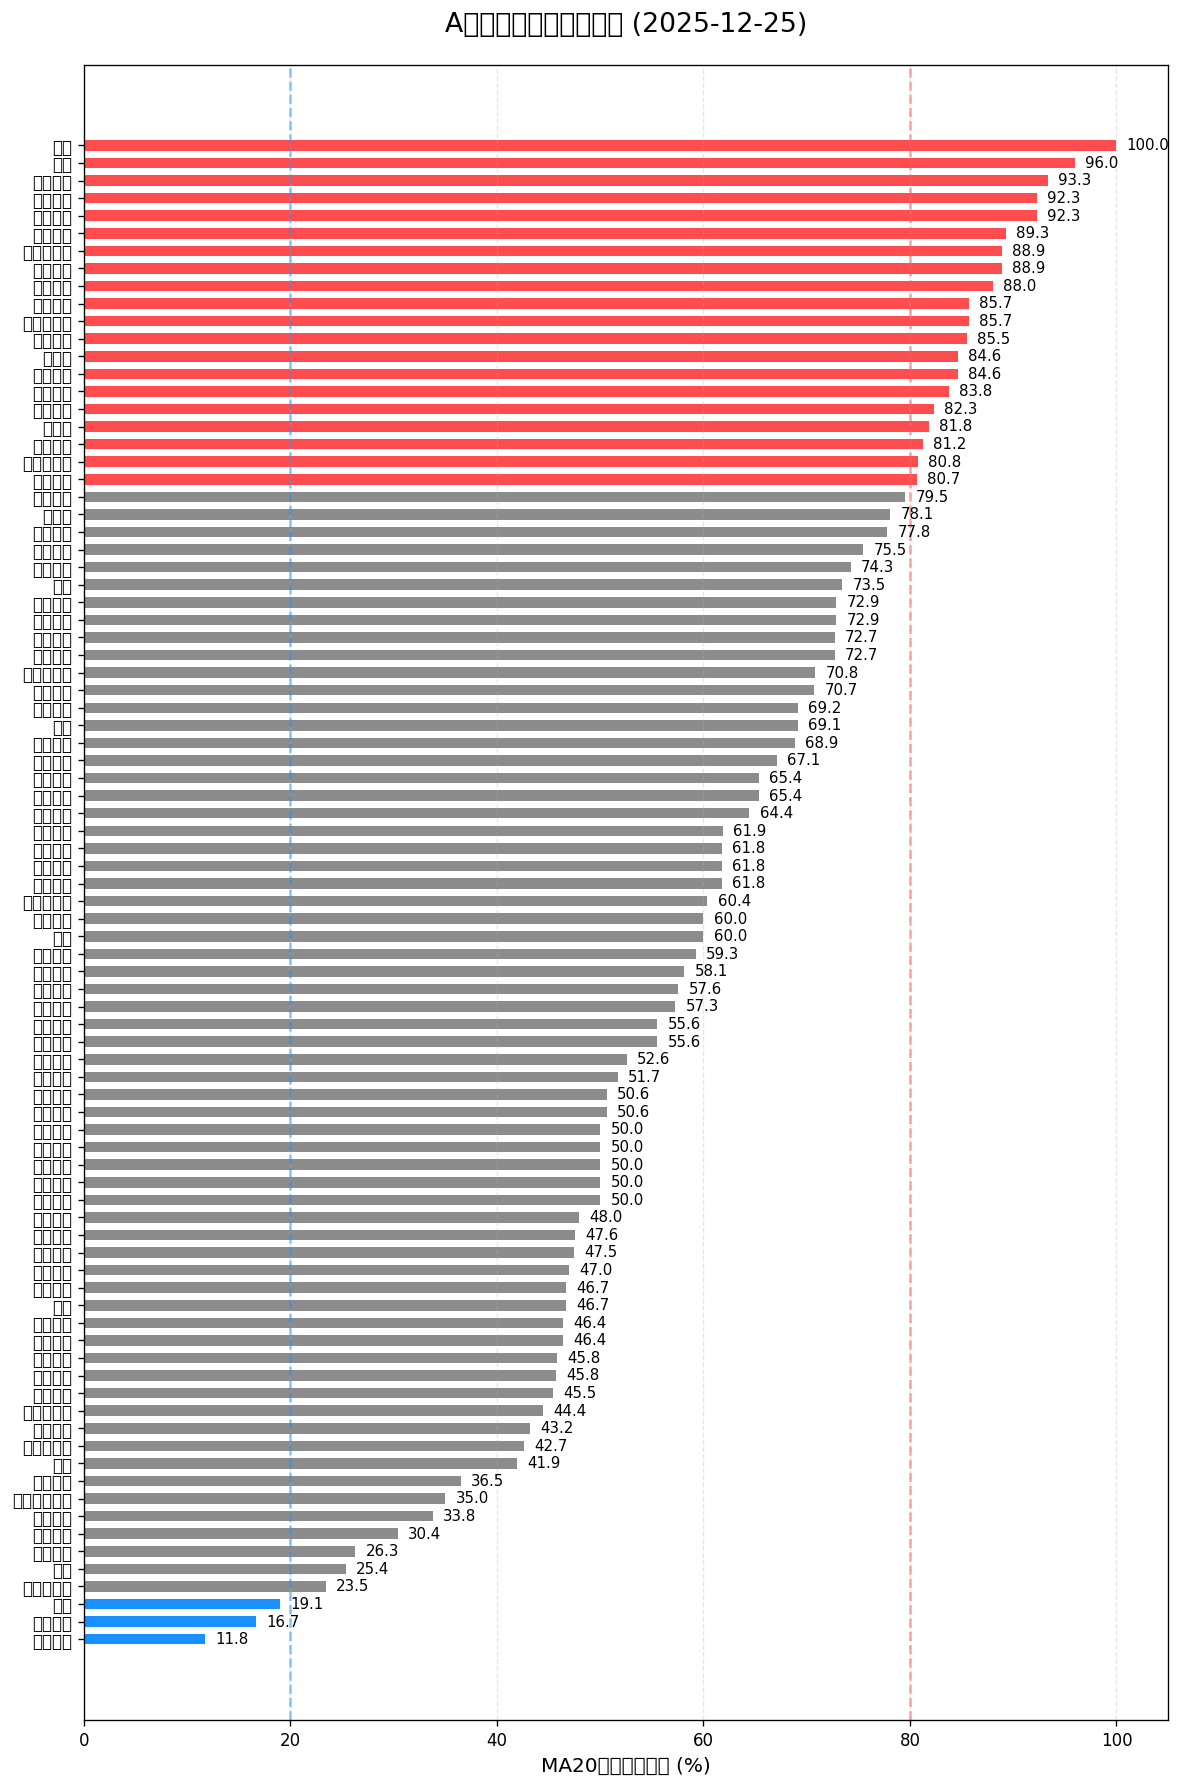
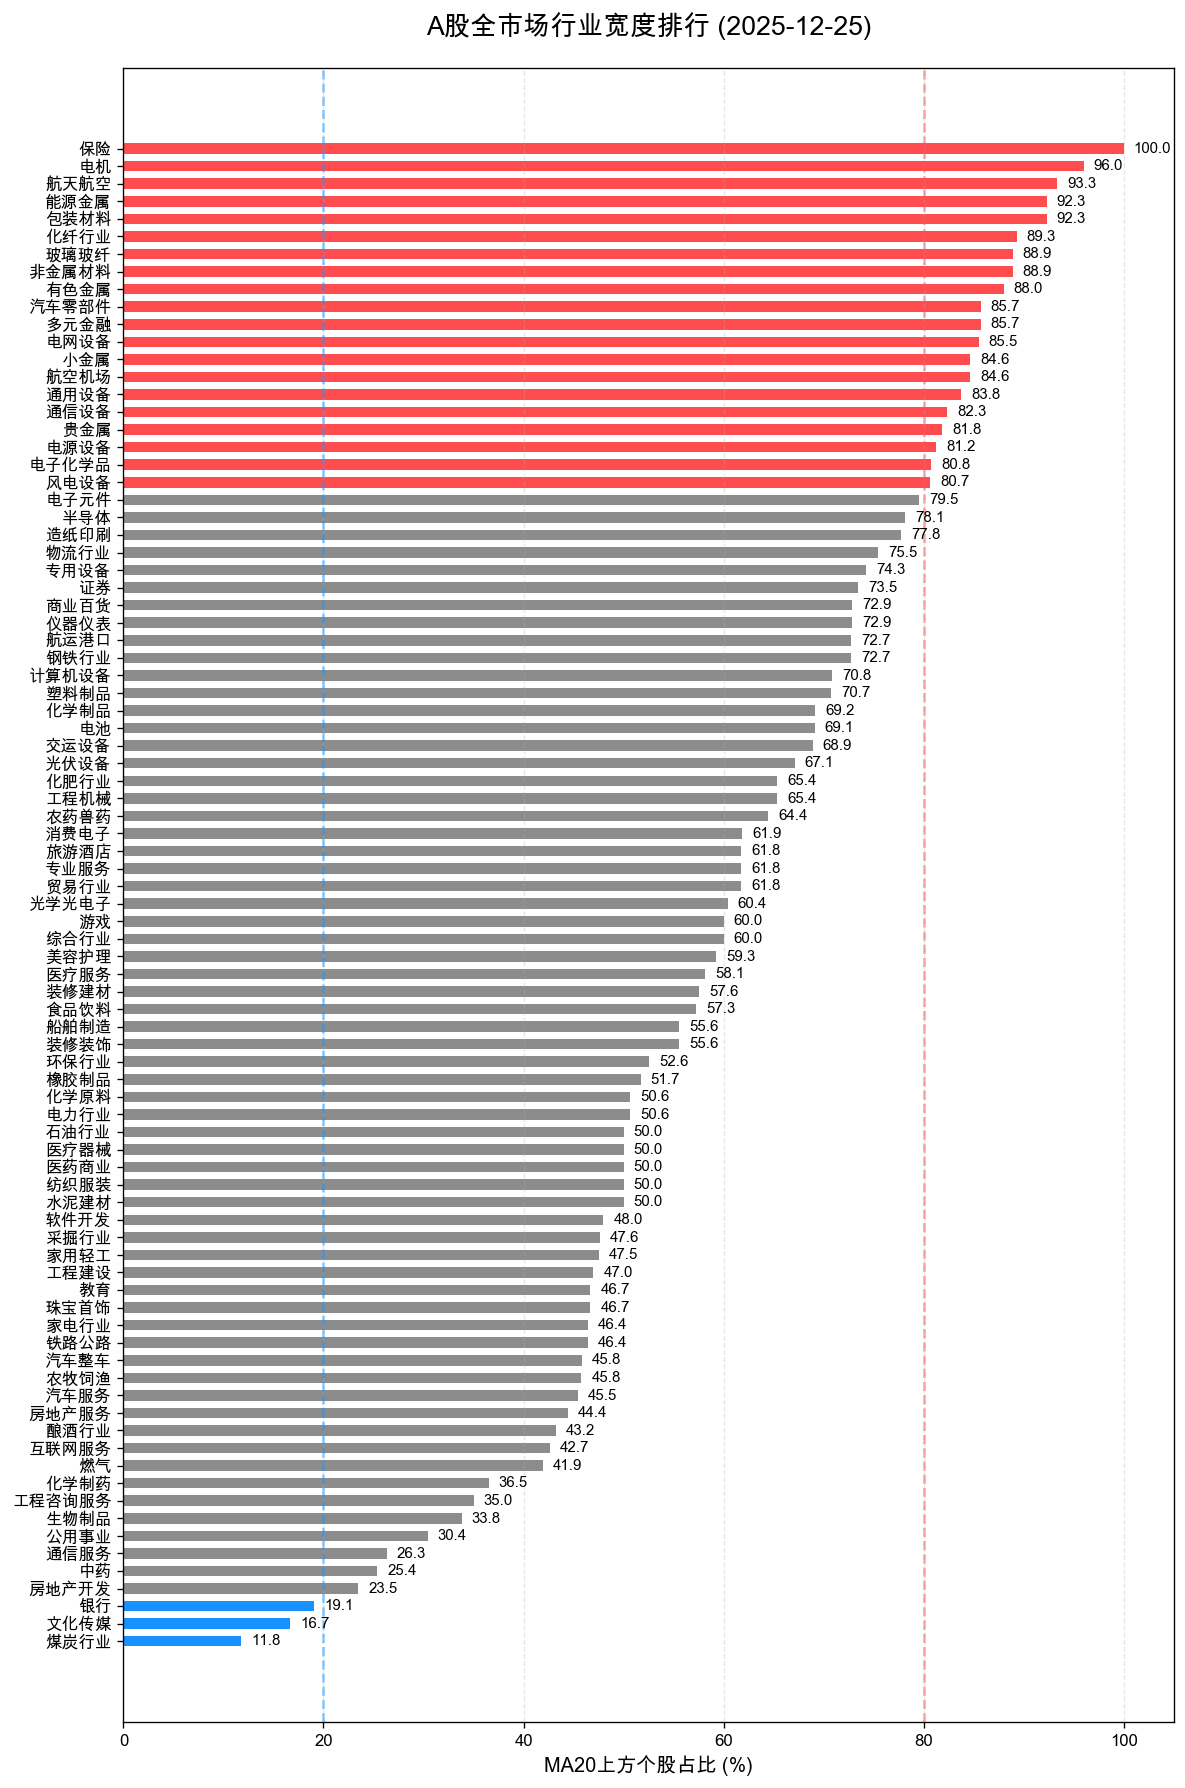
本地更新: 2025-12-26 13:20:23

diff --git a/layouts/partials/article/components/header.html b/layouts/partials/article/components/header.html
@@ -1,31 +1,43 @@
+{{- $page := . -}}
+{{- $showImage := true -}}
+{{- if reflect.IsMap . -}}
+    {{- if .Page -}}
+        {{- $page = .Page -}}
+    {{- end -}}
+    {{- if .HideImage -}}
+        {{- $showImage = false -}}
+    {{- end -}}
+{{- end -}}
+
+{{- with $page -}}
 <header class="article-header">
     {{- $image := partialCached "helper/image" (dict "Context" . "Type" "article") .RelPermalink "article" -}}
     {{- $hasImage := or $image.exists .Params.image -}}
     {{- $contentImage := "" -}}
-    {{/* 判断是否为文章浏览页（单页面）*/}}
+    {{- /* 判断是否为文章浏览页（单页面）*/ -}}
     {{- $isSinglePage := eq .Kind "page" -}}
 
-    {{/* 如果没有明确指定图片，尝试从内容中提取第一张图片 */}}
-    {{ if not $hasImage }}
-    {{ $content := .RawContent }}
-    {{ $imgPattern := `!\[.*?\]\((.*?)\)` }}
-    {{ $matches := findRE $imgPattern $content 1 }}
-    {{ if $matches }}
-    {{ $hasImage = true }}
-    {{ $firstMatch := index $matches 0 }}
-    {{ $urlPattern := `\((.*?)\)` }}
-    {{ $urlMatches := findRE $urlPattern $firstMatch 1 }}
-    {{ if $urlMatches }}
-    {{ $contentImage = replaceRE `[\(\)]` "" (index $urlMatches 0) }}
-    {{ end }}
-    {{ end }}
-    {{ end }}
+    {{- /* 如果没有明确指定图片，尝试从内容中提取第一张图片 */ -}}
+    {{- if not $hasImage -}}
+    {{- $content := .RawContent -}}
+    {{- $imgPattern := `!\[.*?\]\((.*?)\)` -}}
+    {{- $matches := findRE $imgPattern $content 1 -}}
+    {{- if $matches -}}
+    {{- $hasImage = true -}}
+    {{- $firstMatch := index $matches 0 -}}
+    {{- $urlPattern := `\((.*?)\)` -}}
+    {{- $urlMatches := findRE $urlPattern $firstMatch 1 -}}
+    {{- if $urlMatches -}}
+    {{- $contentImage = replaceRE `[\(\)]` "" (index $urlMatches 0) -}}
+    {{- end -}}
+    {{- end -}}
+    {{- end -}}
 
-    {{ if $hasImage }}
+    {{- if and $hasImage $showImage -}}
     <div class="article-image">
-        {{/* 在文章浏览页不使用链接包裹图片，避免点击刷新 */}}
-        {{ if not $isSinglePage }}<a href="{{ .RelPermalink }}">{{ end }}
-            {{ if $image.resource }}
+        {{- /* 在文章浏览页不使用链接包裹图片，避免点击刷新 */ -}}
+        {{- if not $isSinglePage -}}<a href="{{ .RelPermalink }}">{{- end -}}
+            {{- if $image.resource -}}
             {{- $Permalink := $image.resource.RelPermalink -}}
             {{- $Width := $image.resource.Width -}}
             {{- $Height := $image.resource.Height -}}
@@ -42,16 +54,17 @@
 
             <img src="{{ $Permalink }}" {{ with $Srcset }}srcset="{{ . }}" {{ end }} width="{{ $Width }}"
                 height="{{ $Height }}" loading="lazy" alt="Featured image of post {{ .Title }}" />
-            {{ else if $image.permalink }}
+            {{- else if $image.permalink -}}
             <img src="{{ $image.permalink }}" loading="lazy" alt="Featured image of post {{ .Title }}" />
-            {{ else if .Params.image }}
+            {{- else if .Params.image -}}
             <img src="{{ .Params.image | relURL }}" loading="lazy" alt="Featured image of post {{ .Title }}" />
-            {{ else if $contentImage }}
+            {{- else if $contentImage -}}
             <img src="{{ $contentImage | relURL }}" loading="lazy" alt="Featured image of post {{ .Title }}" />
-            {{ end }}
-            {{ if not $isSinglePage }}</a>{{ end }}
+            {{- end -}}
+            {{- if not $isSinglePage -}}</a>{{- end -}}
     </div>
-    {{ end }}
+    {{- end -}}
 
-    {{ partialCached "article/components/details" . .RelPermalink }}
+    {{- partialCached "article/components/details" . .RelPermalink -}}
 </header>
+{{- end -}}

diff --git a/layouts/partials/article-list/default.html b/layouts/partials/article-list/default.html
@@ -1,15 +1,3 @@
-{{ $image := partialCached "helper/image" (dict "Context" . "Type" "articleList") .RelPermalink "articleList" }}
-{{/* 检查 front matter 中是否有 image */}}
-{{ $hasImage := or $image.exists .Params.image }}
-{{/* 如果没有，尝试从内容中提取第一张图片 */}}
-{{ if not $hasImage }}
-{{ $content := .RawContent }}
-{{ $imgPattern := `!\[.*?\]\((.*?)\)` }}
-{{ $matches := findRE $imgPattern $content 1 }}
-{{ if $matches }}
-{{ $hasImage = true }}
-{{ end }}
-{{ end }}
-<article class="{{ if $hasImage }}has-image{{ end }}">
-    {{ partial "article/components/header" . }}
+<article class="">
+    {{ partial "article/components/header" (dict "Page" . "HideImage" true) }}
 </article>

diff --git a/分析文章脚本/AI市场宽度分析师_v4.py b/分析文章脚本/AI市场宽度分析师_v4.py
@@ -14,6 +14,10 @@ import matplotlib.pyplot as plt
 import matplotlib
 from pathlib import Path
 
+# 设置中文字体，GitHub Actions 优先使用 Noto Sans CJK 
+plt.rcParams['font.sans-serif'] = ['Noto Sans CJK SC', 'WenQuanYi Micro Hei', 'SimHei', 'Microsoft YaHei', 'PingFang SC', 'Arial Unicode MS', 'DejaVu Sans'] 
+plt.rcParams['axes.unicode_minus'] = False
+
 
 # ================= 配置区域 =================
 # 请在环境变量中设置 DEEPSEEK_API_KEY，或直接在此处填入 (不推荐直接提交到代码库)
@@ -830,8 +834,8 @@ def plot_market_breadth(pivot, dates):
         latest_date = dates[-1]
         current_vals = pivot[latest_date].sort_values(ascending=True)
         
-        # 设置中文字体 (优先尝试 MacOS 常见字体)
-        plt.rcParams['font.sans-serif'] = ['Arial Unicode MS', 'PingFang SC', 'Heiti TC', 'sans-serif']
+        # 设置中文字体，GitHub Actions 优先使用 Noto Sans CJK
+        plt.rcParams['font.sans-serif'] = ['Noto Sans CJK SC', 'WenQuanYi Micro Hei', 'SimHei', 'Microsoft YaHei', 'PingFang SC', 'Arial Unicode MS', 'DejaVu Sans']
         plt.rcParams['axes.unicode_minus'] = False
         
         # 创建画布
@@ -902,10 +906,6 @@ def plot_sector_momentum(momentum_df, date_str):
             return None
             
         print("正在生成行业动量散点图...")
-        
-        # 设置中文字体
-        plt.rcParams['font.sans-serif'] = ['Arial Unicode MS', 'PingFang SC', 'Heiti TC', 'sans-serif']
-        plt.rcParams['axes.unicode_minus'] = False
         
         plt.figure(figsize=(12, 10))
         

diff --git a/分析文章脚本/榨利计算深度分析_v3.py b/分析文章脚本/榨利计算深度分析_v3.py
@@ -42,8 +42,8 @@ class 榨利计算器V3:
     
     def __init__(self):
         """初始化"""
-        # 设置中文字体，GitHub Actions 优先使用 Noto Sans CJK
-        plt.rcParams['font.sans-serif'] = ['Noto Sans CJK SC', 'WenQuanYi Micro Hei', 'SimHei', 'Microsoft YaHei', 'PingFang SC', 'Arial Unicode MS', 'DejaVu Sans']
+        # 设置中文字体，GitHub Actions 优先使用 Noto Sans CJK 
+        plt.rcParams['font.sans-serif'] = ['Noto Sans CJK SC', 'WenQuanYi Micro Hei', 'SimHei', 'Microsoft YaHei', 'PingFang SC', 'Arial Unicode MS', 'DejaVu Sans'] 
         plt.rcParams['axes.unicode_minus'] = False
         # 压榨产出比例
         self.豆油产出率 = 0.185

diff --git a/A股市场宽度分析日报.md b/A股市场宽度分析日报.md
@@ -1,23 +1,3 @@
----
-title: "A股市场宽度分析日报"
-date: 2025-12-26T13:10:58+08:00
-lastmod: 2025-12-26T13:10:58+08:00
-description: "基于市场宽度指标的A股深度分析报告，包含AI智能解读和投资建议"
-tags: ["A股", "市场分析", "AI分析", "投资策略", "股票市场"]
-categories: ["市场分析", "投资策略"]
-author: ["AI分析师"]
-image: "/images/charts/A股市场宽度全景图.png"
-draft: false
----
-
-## 📊 市场宽度全景图
-
-![A股市场宽度全景图](/images/charts/A股市场宽度全景图.png)
-
-## 🚀 行业动量分析图
-
-![🚀 行业动量分析图](/images/charts/A股行业动量分析图.png)
-
 
 > **推送时间**: 2025-12-26 13:10 (北京时间) | 每个交易日下午 15:30 推送
 > **最新数据日期**: 2025-12-25
